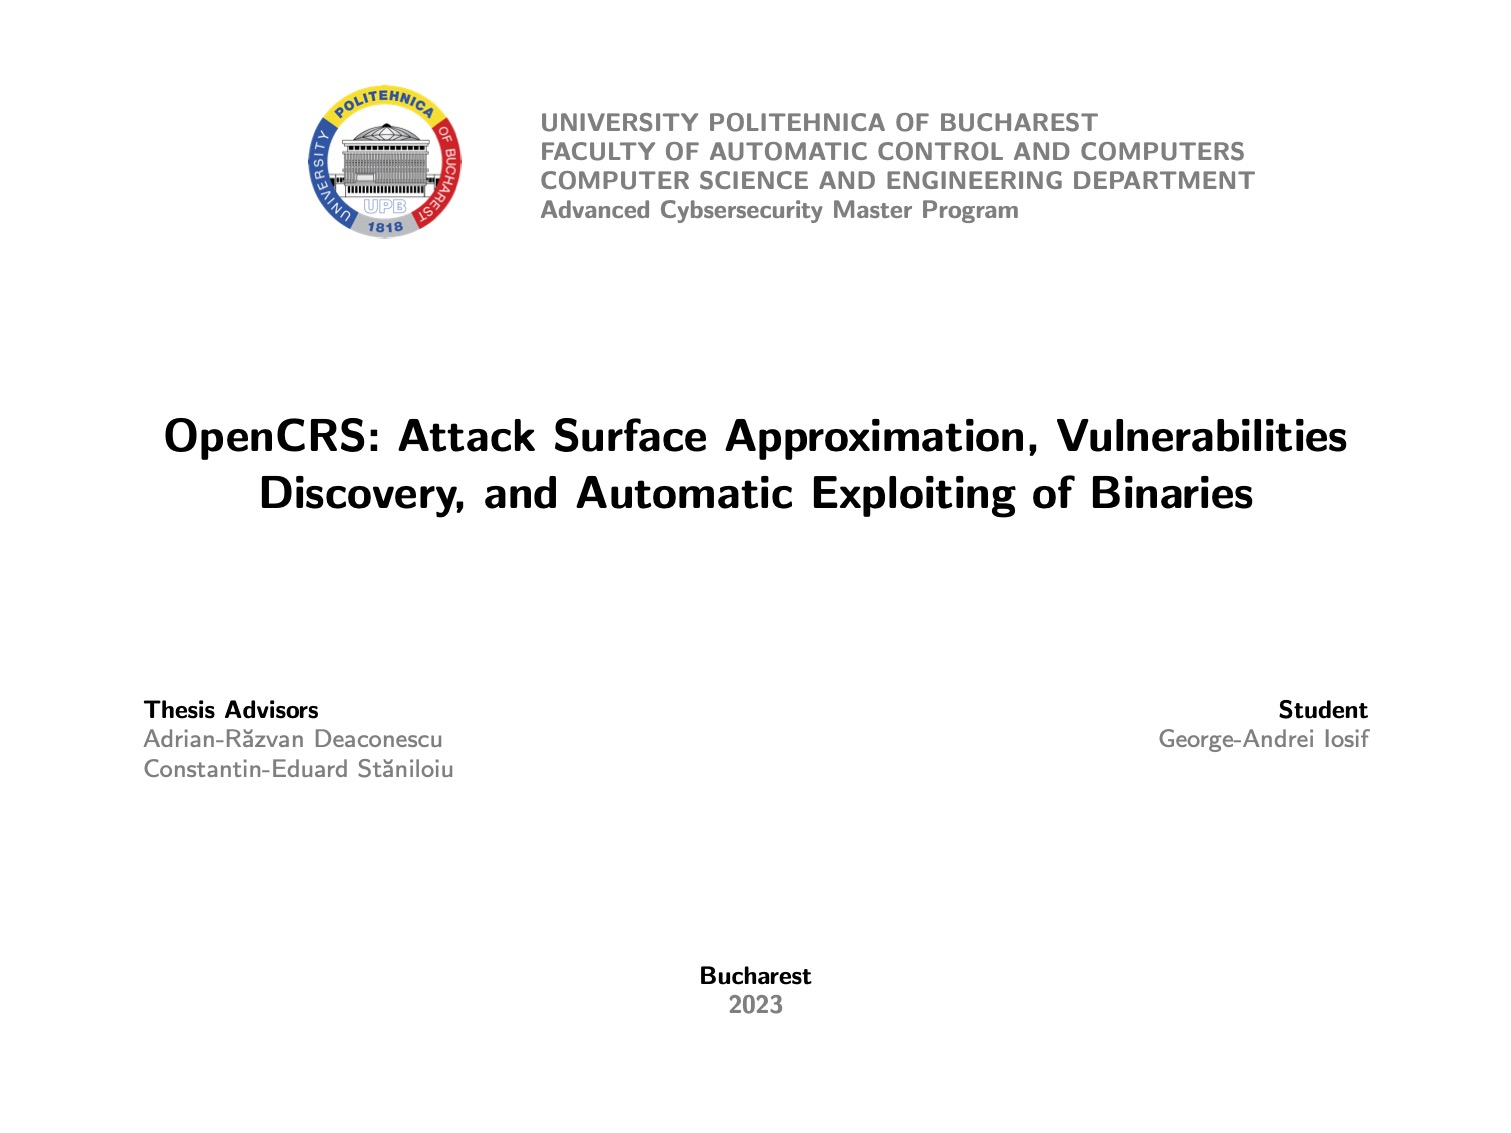
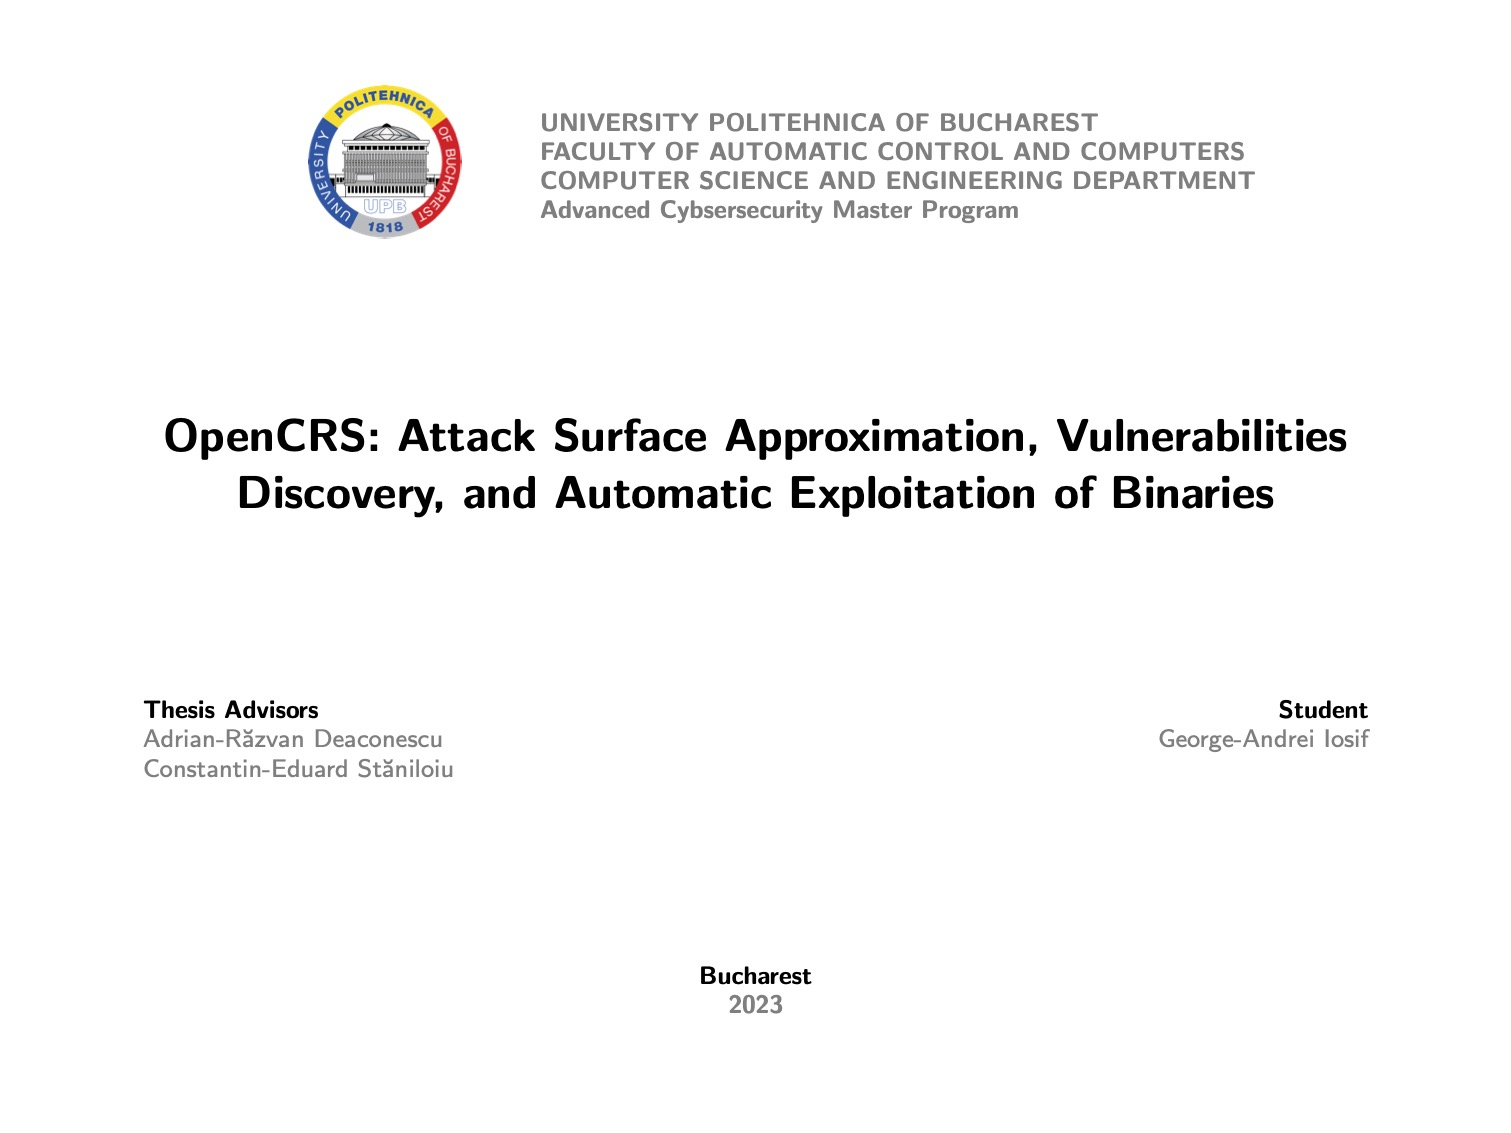
Updates the title

Changed region(s): [[0.1555, 0.4016, 0.8398, 0.4634]]

diff --git a/presentation/project/configuration.tex b/presentation/project/configuration.tex
@@ -1,6 +1,6 @@
 \setdetailspecialization{Advanced Cybsersecurity Master Program}
 
-\setdetailtitle{OpenCRS: Attack Surface Approximation, Vulnerabilities Discovery, and Automatic Exploiting of Binaries}
+\setdetailtitle{OpenCRS: Attack Surface Approximation, Vulnerabilities Discovery, and Automatic Exploitation of Binaries}
 
 \setdetailauthor{George-Andrei Iosif}
 

diff --git a/thesis/project/configuration/details.tex b/thesis/project/configuration/details.tex
@@ -1,4 +1,4 @@
-\setdetailtitle{OpenCRS: Attack Surface Approximation, Vulnerabilities Discovery, and Automatic Exploiting of Binaries}
+\setdetailtitle{OpenCRS: Attack Surface Approximation, Vulnerabilities Discovery, and Automatic Exploitation of Binaries}
 
 \setdetailsubtitle{}
 
